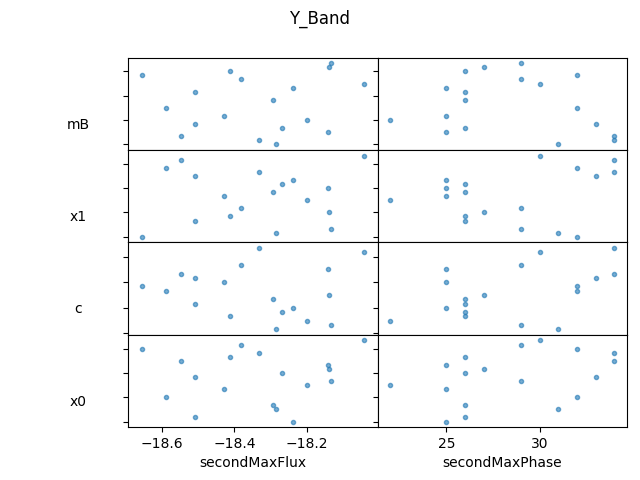
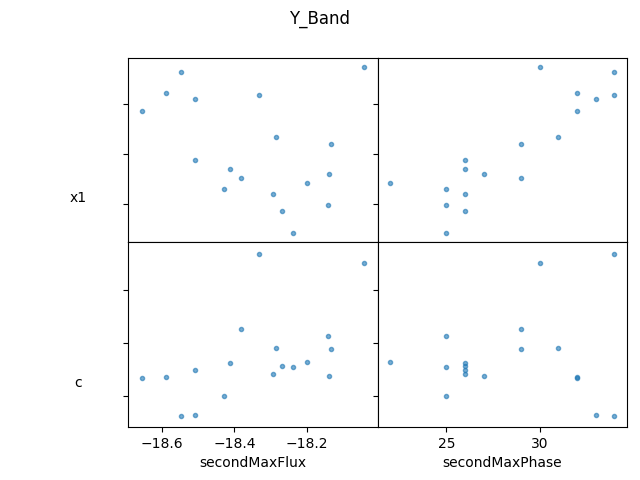
Added Gaussian processes fitter for light curves. Added option to plot in PopulationStatistics class.

diff --git a/scripts/gp_fit.py b/scripts/gp_fit.py
@@ -1,0 +1,130 @@
+import os
+import numpy as np
+import matplotlib.pyplot as plt
+from scripts.population_statistics import PopulationStatistics
+from scripts.helpers import get_filenames
+from chainconsumer import ChainConsumer
+
+from scipy.optimize import minimize
+import celerite
+from celerite import terms
+
+
+def get_data(band):
+    filenameList, scriptDir = get_filenames(band)
+    popStats = PopulationStatistics(filenameList, band)
+    xBinsArray, yBinsArray, peaks, headerData = popStats.get_binned_light_curves(plot=False, bin_size=4)
+    x = xBinsArray[0]  # Binned epochs
+    y = np.nanmean(yBinsArray, axis=0)  # Average Light curve
+    yerr = np.nanstd(yBinsArray, axis=0)  # Stand Deviation of all light curves
+    cov = np.diag(yerr ** 2)  # Covariance matrix (assuming data at different epochs are independent)
+
+    return x, y, yerr, cov
+
+
+def plot_data(x, y, yerr):
+    fig, ax = plt.subplots(1)
+    ax.errorbar(x, y, yerr=yerr, fmt='.k')
+    ax.invert_yaxis()
+    ax.set_title(band)
+    ax.set_xlabel('Phase (days)')
+    ax.set_ylabel('Abs mag')
+
+
+def gp_model(x, y, yerr, scriptDir):
+    # Set up the GP model
+    kernel = terms.RealTerm(log_a=np.log(np.nanvar(y)), log_c=-np.log(10.0))
+    gp = celerite.GP(kernel, mean=np.nanmean(y))
+    gp.compute(x, yerr)
+    print("Initial log-likelihood: {0}".format(gp.log_likelihood(y)))
+
+    # Define a cost function
+    def neg_log_like(params, y, gp):
+        gp.set_parameter_vector(params)
+        return -gp.log_likelihood(y)
+
+    def grad_neg_log_like(params, y, gp):
+        gp.set_parameter_vector(params)
+        return -gp.grad_log_likelihood(y)[1]
+
+    # Fit for the maximum likelihood parameters
+    initial_params = gp.get_parameter_vector()
+    bounds = gp.get_parameter_bounds()
+    soln = minimize(neg_log_like, initial_params, jac=grad_neg_log_like,
+                    method="L-BFGS-B", bounds=bounds, args=(y, gp))
+    gp.set_parameter_vector(soln.x)
+    print("Final log-likelihood: {0}".format(-soln.fun))
+
+    # Make the maximum likelihood prediction
+    t = np.linspace(-10, 100, 500)
+    mu, var = gp.predict(y, t, return_var=True)
+    std = np.sqrt(var)
+
+    # Plot the data
+    plt.figure()
+    color = "#ff7f0e"
+    plt.errorbar(x, y, yerr=yerr, fmt=".k", capsize=0)
+    plt.plot(t, mu, color=color)
+    plt.fill_between(t, mu + std, mu - std, color=color, alpha=0.3, edgecolor="none")
+    plt.ylabel(r"$y$")
+    plt.xlabel(r"$t$")
+    plt.gca().yaxis.set_major_locator(plt.MaxNLocator(5))
+    plt.title("maximum likelihood prediction")
+    plt.gca().invert_yaxis()
+
+    def log_probability(params):
+        gp.set_parameter_vector(params)
+        lp = gp.log_prior()
+        if not np.isfinite(lp):
+            return -np.inf
+        return gp.log_likelihood(y) + lp
+
+    import emcee
+
+    initial = np.array(soln.x)
+    ndim, nwalkers = len(initial), 32
+    sampler = emcee.EnsembleSampler(nwalkers, ndim, log_probability)
+
+    print("Running burn-in...")
+    p0 = initial + 1e-8 * np.random.randn(nwalkers, ndim)
+    p0, lp, _ = sampler.run_mcmc(p0, 500)
+
+    print("Running production...")
+    sampler.reset()
+    sampler.run_mcmc(p0, 2000)
+
+    # Plot the data.
+    plt.errorbar(x, y, yerr=yerr, fmt=".k", capsize=0)
+
+    # Plot 24 posterior samples.
+    samples = sampler.flatchain
+    for s in samples[np.random.randint(len(samples), size=24)]:
+        gp.set_parameter_vector(s)
+        mu = gp.predict(y, t, return_cov=False)
+        plt.plot(t, mu, color=color, alpha=0.3)
+
+    plt.ylabel(r"$y$")
+    plt.xlabel(r"$t$")
+    plt.xlim(-10, 100)
+    plt.gca().yaxis.set_major_locator(plt.MaxNLocator(5))
+    plt.title(r"{0} posterior predictions".format(band).replace('_', '-'))
+    plt.savefig(os.path.join(scriptDir, '../Figures/%s posterior predictions' % band))
+
+    names = gp.get_parameter_names()
+    c = ChainConsumer()
+    c.add_chain(samples, parameters=('log(a)', 'log(c)'))
+    c.plotter.plot(filename=os.path.join(scriptDir, '../Figures/{0}_param_contours.png'.format(band)))
+
+
+if __name__ == '__main__':
+    bandList = ['H_band', 'J_Band', 'K_band', 'Y_Band']
+    scriptDir = os.path.dirname(os.path.realpath(__file__))
+
+    for band in bandList:
+        x, y, yerr, cov = get_data(band)
+
+        # plot_data(x, y, yerr)
+
+        gp_model(x, y, yerr, scriptDir)
+
+    plt.show()

diff --git a/scripts/population_statistics.py b/scripts/population_statistics.py
@@ -11,13 +11,17 @@ class PopulationStatistics(object):
         self.filenameList = filenameList
         self.bandName = bandName
 
-    def plot_binned_light_curves(self, colorMarker):
+    def get_binned_light_curves(self, colorMarker=None, plot=True, bin_size=1):
         """ Get the peaks and header data for each supernova. And plot the binned light curves.
         
         Parameters
         ----------
         colorMarker : tuple
             First index is the color, the second index is the marker type. E.g. ('blue', '.')
+            If set to None then ensure that plot=False.
+
+        plot : boolean
+            Set True to plot light curves. If True, colorMarker must not be None
         
         Returns
         -------
@@ -36,18 +40,23 @@ class PopulationStatistics(object):
         xBinsList, yBinsList, peaks, headerData = [], [], {}, {}
         zorder = 200
 
-        fig, ax = plt.subplots(2, sharex=True)
-        ax[0].set_title(self.bandName)
-        ax[0].set_ylabel('Abs mag')
-        ax[0].invert_yaxis()
-        ax[1].invert_yaxis()
-        ax[1].set_ylabel('Maxima')
+        if plot is True:
+            fig, ax = plt.subplots(2, sharex=True)
+            ax[0].set_title(self.bandName)
+            ax[0].set_ylabel('Abs mag')
+            ax[0].invert_yaxis()
+            ax[1].invert_yaxis()
+            ax[1].set_ylabel('Maxima')
+        else:
+            ax = None, None
+            colorMarker = [None]*len(self.filenameList)
 
         for i, filename in enumerate(self.filenameList):
             snName = os.path.basename(filename).split('_')[0]
             zorder -= 1
-            lightCurve = LightCurve(filename)
-            lightCurve.plot_light_curves(axis=ax[0], cm=colorMarker[i], zorder=zorder)
+            lightCurve = LightCurve(filename, bin_size=bin_size)
+            if plot:
+                lightCurve.plot_light_curves(axis=ax[0], cm=colorMarker[i], zorder=zorder)
             try:
                 xBins, yBins = lightCurve.bin_light_curve()
                 peakPhases, peakFluxes = lightCurve.get_peaks(axis=ax[1], cm=colorMarker[i], zorder=zorder)
@@ -65,13 +74,14 @@ class PopulationStatistics(object):
         averageLC = np.nanmean(yBinsArray, axis=0)
         errorsLC = np.nanstd(yBinsArray, axis=0)
 
-        ax[0].plot(xBinsArray[0], averageLC, 'k-', zorder=1000)
-        ax[0].fill_between(xBinsArray[0], averageLC - errorsLC, averageLC + errorsLC, alpha=0.7, zorder=1000)
+        if plot is True:
+            ax[0].plot(xBinsArray[0], averageLC, 'k-', zorder=1000)
+            ax[0].fill_between(xBinsArray[0], averageLC - errorsLC, averageLC + errorsLC, alpha=0.7, zorder=1000)
 
-        plt.xlabel('Phase (days)')
-        plt.xlim(-20, 100)
-        # plt.legend(bbox_to_anchor=(1.05, 1), loc=2, borderaxespad=0., ncol=1)
-        plt.savefig('Figures/' + self.bandName)
+            plt.xlabel('Phase (days)')
+            plt.xlim(-20, 100)
+            # plt.legend(bbox_to_anchor=(1.05, 1), loc=2, borderaxespad=0., ncol=1)
+            plt.savefig('Figures/' + self.bandName)
 
         return xBinsArray, yBinsArray, peaks, headerData
 

diff --git a/scripts/fit_light_curve.py b/scripts/fit_light_curve.py
@@ -5,9 +5,10 @@ from scipy.signal import argrelextrema
 
 
 class LightCurve(object):
-    def __init__(self, filename):
+    def __init__(self, filename, bin_size=1):
         self.filename = filename
         self.snVars, self.data = self.get_data()
+        self.bin_size = bin_size
 
     def get_data(self):
         """
@@ -46,7 +47,7 @@ class LightCurve(object):
         """ Plots the light curve with error bars and a different color for each"""
         data = self.data
         label = os.path.basename(self.filename)
-        if not data['Phase(T_Bmax)'].empty:
+        if not data['Phase(T_Bmax)'].empty and axis is not None:
             axis.errorbar(data['Phase(T_Bmax)'], data['Abs mag'], yerr=data['Error Abs mag'], fmt=cm[1],
                           label=label.split('_')[0], zorder=zorder, color=cm[0], alpha=0.8)
 
@@ -56,7 +57,7 @@ class LightCurve(object):
     def bin_light_curve(self):
         phase = self.data['Phase(T_Bmax)'].values
         absMag = self.data['Abs mag'].values
-        xBins = np.linspace(-20, 100, 121)
+        xBins = np.arange(-10, 100, self.bin_size)
         yBinned = np.interp(x=xBins, xp=phase, fp=absMag, left=np.NaN, right=np.NaN)
 
         return xBins, yBinned

diff --git a/scripts/main.py b/scripts/main.py
@@ -14,9 +14,9 @@ def main():
     colorMarker = get_colors_and_markers()
 
     for band in bandList:
-        filenameList = get_filenames(band)
+        filenameList, scriptDir = get_filenames(band)
         popStats = PopulationStatistics(filenameList, band)
-        xBinsArray, yBinsArray, peaks, headerData = popStats.plot_binned_light_curves(colorMarker)
+        xBinsArray, yBinsArray, peaks, headerData = popStats.get_binned_light_curves(colorMarker=colorMarker, plot=True, bin_size=1)
         muList = popStats.get_mu(headerData)
         labelledMaxima = popStats.plot_mu_vs_peaks(muList, peaks)
 

diff --git a/scripts/optical_parameters.py b/scripts/optical_parameters.py
@@ -34,7 +34,7 @@ class CompareOpticalAndNIR(object):
 
     def nir_peaks_vs_optical_params(self):
         nirPeaks = self.nirPeaks[['secondMaxFlux', 'secondMaxPhase']]
-        opticalData = self.opticalData[['mB', 'x1', 'c', 'x0']]
+        opticalData = self.opticalData[['x1', 'c']]
         fig, ax = plt.subplots(nrows=len(opticalData.columns), ncols=len(nirPeaks.columns), sharex='col', sharey='row')
         fig.subplots_adjust(wspace=0, hspace=0)
         for i, f in enumerate(opticalData.columns):

diff --git a/scripts/helpers.py b/scripts/helpers.py
@@ -2,11 +2,12 @@ import os
 
 
 def get_filenames(band):
-    directory = os.path.join('data/NIR_Lowz_data', band)
+    scriptDir = os.path.dirname(os.path.realpath(__file__))
+    directory = os.path.join(scriptDir, '../data/NIR_Lowz_data', band)
     filenameList = os.listdir(directory)
     filePathList = [os.path.join(directory, f) for f in filenameList]
 
-    return filePathList
+    return filePathList, scriptDir
 
 
 def get_colors_and_markers():
